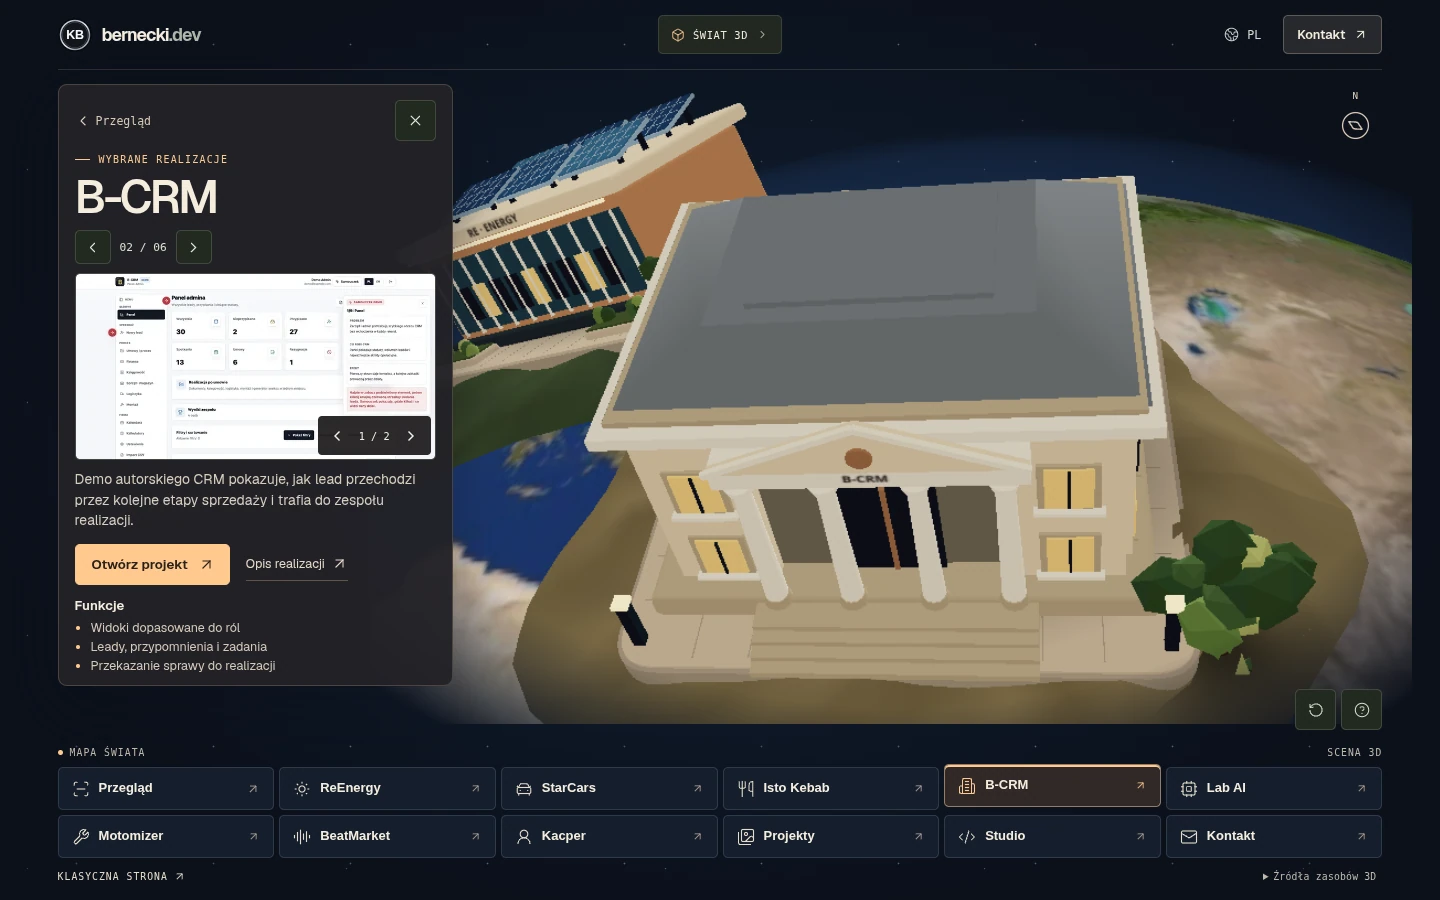
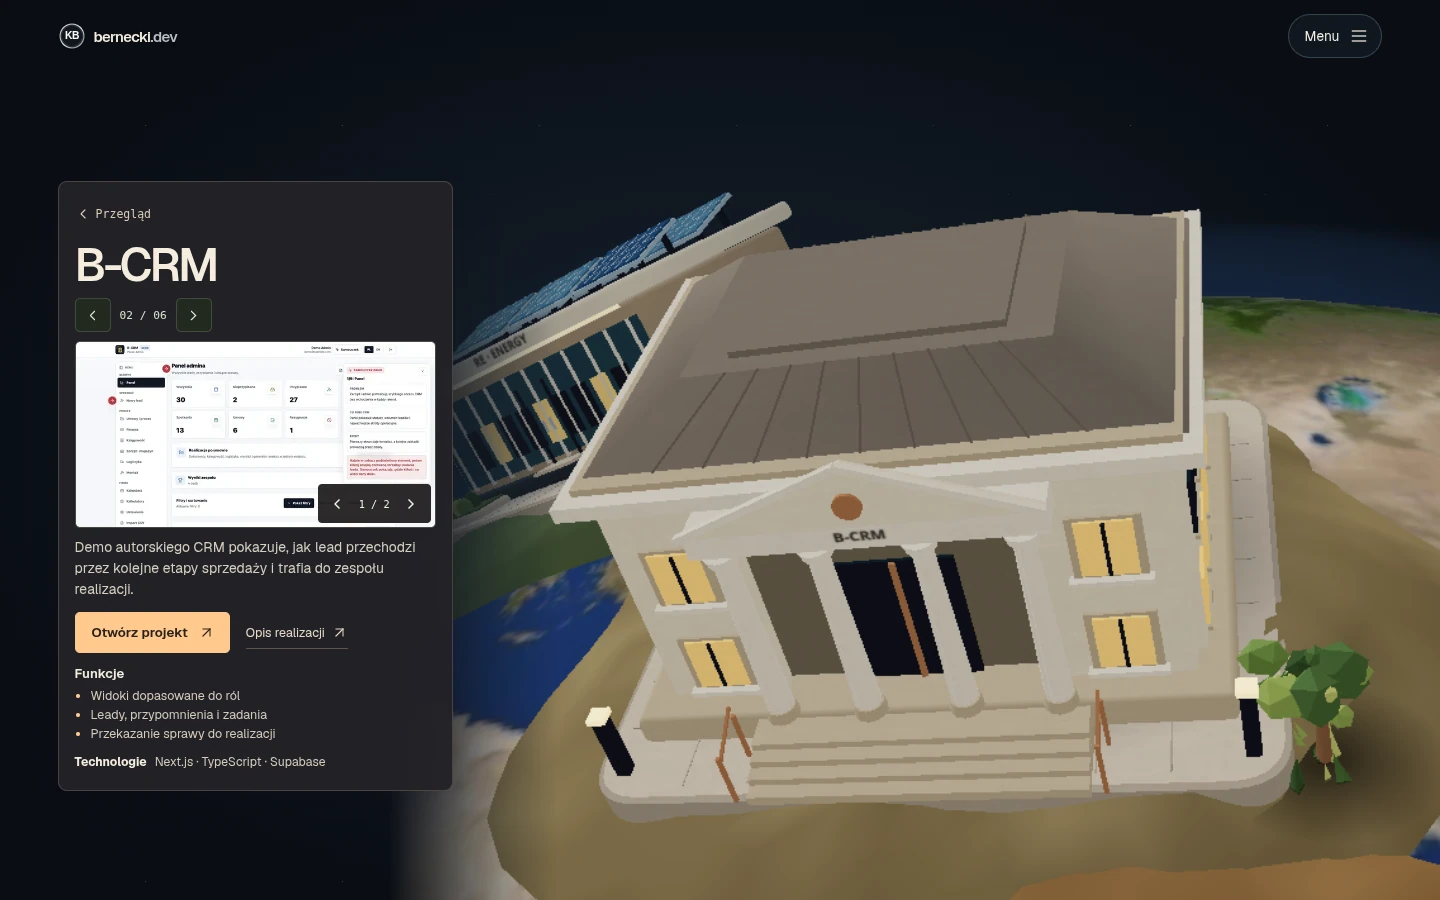
Verify premium globe navigation and record visual checks

diff --git a/src/components/world/World.tsx b/src/components/world/World.tsx
@@ -283,7 +283,7 @@ export function World({ locale }: { locale: WorldLocale }) {
           <Image ref={poster} src="/images/world/model.webp" alt="" fill unoptimized priority fetchPriority="high" />
         </div>
         <div className={styles.canvas} ref={host} />
-        <div className={styles.hotspots} aria-label={t.places}>
+        <div className={styles.hotspots} role="group" aria-label={t.places}>
           {sceneStops.map(place => (
             <button type="button" key={place.id} className={styles.hotspot}
               data-zone={place.id} data-side={place.labelSide} aria-label={stopLabel(place.id)}
@@ -317,7 +317,7 @@ export function World({ locale }: { locale: WorldLocale }) {
             </div>
             <div className={styles.projectPhoto} data-place-reveal="">
               <a href={`/images/projects/${gallery.images[photo]}`} target="_blank" rel="noopener noreferrer" aria-label={`${t.photo} — ${gallery.name}`}>
-                <Image key={gallery.images[photo]} src={`/images/projects/${gallery.images[photo]}`} alt={`${t.projectImage} — ${gallery.name}`} fill sizes="(max-width: 830px) 87vw, 360px" />
+                <Image key={gallery.images[photo]} src={`/images/projects/${gallery.images[photo]}`} alt={`${t.projectImage} — ${gallery.name}`} fill loading="eager" sizes="(max-width: 830px) 87vw, 360px" />
               </a>
               {gallery.images.length > 1 && <div className={styles.photoNav}>
                 <button type="button" aria-label={t.prevPhoto} onClick={() => setPhoto(value => (value - 1 + gallery.images.length) % gallery.images.length)}><ChevronLeft size={16} /></button>

diff --git a/QUALITY_GATE.md b/QUALITY_GATE.md
@@ -1,36 +1,35 @@
-# Bernecki World — bramka jakości
+# Bernecki World — etap premium
 
-**92/100.** Ocena dotyczy wydania z globem 3D, obrotem wokół jego środka i zbliżeniem po wybraniu miejsca. [Kadry produkcyjne](docs/world/README.md#kadry-z-buildu-produkcyjnego)
+**8,8/10.** Ocena po porównaniu kadrów produkcyjnych i sprawdzeniu interakcji. Największe rezerwy pozostały w realizmie modeli i płynności na słabszym rendererze. [Kadry desktop i mobile](docs/world/README.md#kadry-z-buildu-produkcyjnego)
 
-| Obszar | Ocena | Podstawa |
+| Obszar | Ocena | Co sprawdzono |
 | --- | ---: | --- |
-| Kierunek artystyczny | 14/15 | Ciemne tło, satelitarna mapa z chmurami i atmosfera kuli. Siedem kadrów sprawdzono w rzeczywistej przeglądarce. |
-| Efekt pierwszego wejścia | 14/15 | Cała planeta w środku kadru, z rozpoznawalnymi miejscami i zaproszeniem do obrotu. |
-| Świat 3D | 14/15 | Miejsca mają geometrię na całej powierzchni kuli. Auta wykorzystują szczegółowe siatki, a zabudowa i ruchomy miś mają formę stylizowanych miniatur. |
-| Animacja i kamera | 14/15 | Obrót zachowuje środek i skalę. Animowany przelot do miejsca po drugiej stronie globu oraz powrót do centrum przeszły testy. |
-| Interakcje i UX | 10/10 | Mysz, dotyk, klawiatura, kliknięcie modelu, karty, obrót, przełącznik trybów i dostęp do projektów bez WebGL działają. |
-| Mobile | 9/10 | Glob zachowuje środek w testowanych rozmiarach, a wybór miejsca działa dotykiem. Na najmniejszym ekranie do dalszych pozycji mapy dociera się przewijaniem. |
-| Wydajność i stabilność | 7/10 | Szczegółowe auta są ładowane przy wyborze StarCars i pojawiają się po przelocie. Oświetlenie globu jest uproszczone w rendererze programowym. Płynność zależy od profilu przeglądarki. |
-| Oryginalność i marka | 5/5 | Autorskie miejsca, portret pluszaka oparty na zdjęciu właściciela, geometryczne detale misia i ruch na placu. |
-| Funkcjonalność biznesowa | 5/5 | Sześć rzeczywistych realizacji, materiały z portfolio, linki do usług i kontakt. |
+| Realizm 3D | 8,1 | HDRI, mapy PBR, kontaktowe przyciemnienie, odbicia i detale elewacji są widoczne w zbliżeniach. Niektóre budynki, rośliny i postać zachowują styl miniatury. |
+| Estetyka premium | 9,2 | Spójna paleta, spokojna typografia, czytelne karty i miękkie oddzielenie zbliżenia od tła. |
+| Pierwsze wrażenie | 9,0 | Ujęcie całej kuli przechodzi po wyborze w przelot do miejsca osadzonego na jej powierzchni. |
+| Minimalizm | 9,5 | Na wejściu widać glob, logo, tytuł, menu i krótką wskazówkę. Etykiety i treści pojawiają się przy interakcji. |
+| Animacja | 9,0 | Sprawdzono obrót, lot na drugą stronę kuli, zmianę projektu, powrót i ograniczenie ruchu. |
+| UX | 9,3 | Obiekty, menu, klawiatura, dotyk, link do projektu i widok klasyczny mają działające ścieżki. |
+| Wydajność | 7,6 | Materiały i pojazdy są pobierane przy zbliżeniu, bez obciążania pierwszego widoku. Na rendererze programowym płynność lotu silnie zależy od profilu. |
+| Mobile | 8,8 | Menu i karta mają własny układ, a środek kuli pozostaje stabilny. Dotyk sprawdzono w profilach Chromium i WebKit. |
 
 ## Weryfikacja
 
-- Build produkcyjny, TypeScript, 355 testów Vitest i weryfikacja PL/EN przeszły. ESLint zgłosił 0 błędów i 15 istniejących ostrzeżeń poza zmianą.
-- Playwright sprawdził środek i skalę globu po obrocie, brak zoomu kółkiem, katalog przy stałym kadrze, kliknięcie modelu ReEnergy, animowany przelot do BeatMarket oraz powrót. Sprawdzono osiem głównych lokacji, ruch pluszaka, wczytanie GLB samochodów i tekstury asfaltu, tryb dotykowy, siedem rozmiarów i widok bez WebGL.
-- W profilu iPhone 13 w WebKit WPE uruchomiono widok angielski i otwarto projekt dotykiem. Tryby Classic i Interactive oraz 41 tras, metadane, sitemap i adresy kanoniczne przeszły testy. Axe zwrócił 0 naruszeń w przeglądzie sceny dla PL, EN i UK.
+- Produkcyjny build, TypeScript, weryfikacja PL/EN i 355 testów Vitest przeszły. ESLint zwrócił 0 błędów i 15 istniejących ostrzeżeń.
+- Playwright sprawdził siedem rozmiarów ekranu, stały środek i skalę globu, ukryte menu, klawiaturę i powrót fokusu, kliknięcie modelu, dotyk, przelot i powrót, szyld B-CRM, wczytywanie pojazdów i materiałów, ruch maskotki, widok bez WebGL oraz Classic. Axe zwrócił 0 naruszeń z otwartym i zamkniętym menu w PL, EN i UK.
+- 41 tras zwróciło HTTP 200. Zweryfikowano adresy kanoniczne, hreflang, sitemap, robots.txt i Open Graph.
 
 ## Pomiary
 
-Lokalny build produkcyjny z kodu `c8a86fc`. Linux bez udostępnionego GPU, Chromium 156 ze SwiftShader i WebKit WPE 27.2. FPS to mediana z sześciu przejść między przeglądem a zbliżeniami. Czas pierwszej klatki liczono od nawigacji do pierwszej oznaczonej klatki WebGL.
+Build produkcyjny uruchomiony w Linuksie bez sprzętowego GPU. Pierwsza klatka jest liczona od nawigacji do gotowości sceny WebGL. FPS jest medianą tempa aktualizacji projekcji w zarejestrowanych fragmentach przelotów.
 
-| Profil | Pierwsza klatka 3D | Mediana podczas ruchu |
+| Profil przeglądarki | Pierwsza klatka | Mediana aktualizacji |
 | --- | ---: | ---: |
-| Chromium, 1440 × 900 | 4,02 s | 8,2 FPS |
-| Chromium, Pixel 7 | 2,30 s | 19,0 FPS |
-| WebKit, 1440 × 900 | 2,63 s | 13,4 FPS |
-| WebKit, iPhone 13 | 1,69 s | 52,9 FPS |
+| Chromium SwiftShader, 1440 × 900 | 2,83 s | 18,2 FPS (4 próbki) |
+| Chromium SwiftShader, Pixel 7 | 2,00 s | 20,9 FPS (6 próbek) |
+| WebKit WPE, 1440 × 900 | 2,94 s | 12,4 FPS (6 próbek) |
+| WebKit WPE, iPhone 13 | 1,51 s | 51,8 FPS (6 próbek) |
 
-Chromium pobrał około 332 kB skompresowanego JavaScriptu i 516 kB obrazów przed wejściem do StarCars. Model samochodu ma 549 kB i jest pobierany na żądanie. Płynność na fizycznych telefonach i komputerze z GPU pozostaje do zmierzenia.
+Scena w uproszczonym profilu pobrała ok. 331 kB skompresowanego JavaScriptu i 531 kB obrazów przed wyborem projektu. Pełny profil pobiera też atlas HDRI. Płynność na fizycznych telefonach i komputerze ze sprzętowym GPU wymaga odrębnego pomiaru.
 
-Lighthouse 13.6.0 w profilu mobilnym dał **61 Performance, 100 Accessibility, 100 Best Practices i 100 SEO**. FCP 0,92 s, LCP 3,32 s, TBT 5,61 s i CLS 0,003.
+Mobilny profil Lighthouse 13.6 w tym środowisku uzyskał 61/100 Performance oraz po 100/100 za Accessibility, Best Practices i SEO. FCP 0,9 s, LCP 3,3 s, TBT 4,21 s i CLS 0,001.

diff --git a/docs/world/README.md b/docs/world/README.md
@@ -1,6 +1,6 @@
 # Bernecki World
 
-Świat jest dostępny pod adresami `/world`, `/en/world` i `/uk/world`. Przeciągnięcie myszą lub palcem obraca planetę przy stałym środku i skali. Katalog projektów pokazuje nadal cały glob. Wybranie miejsca z modelu, mapy lub klawiatury uruchamia przelot i zbliżenie. W klasycznej stronie przycisk „Świat 3D” otwiera wybór trybu z dwoma podglądami.
+Świat jest dostępny pod adresami `/world`, `/en/world` i `/uk/world`. Przeciągnięcie myszą lub palcem obraca planetę przy stałym środku i skali. Menu miejsc otwiera się na żądanie. Wybranie miejsca w scenie, menu lub z klawiatury uruchamia przelot i zbliżenie. W klasycznej stronie przycisk „Świat 3D” otwiera wybór trybu z dwoma podglądami.
 
 ## Miejsca na planecie
 
@@ -15,7 +15,7 @@
 | Scena BeatMarket | Platforma producentów i odsłuch beatów |
 | Pluszowy przewodnik Kacper | Informacje o autorze i ścieżka współpracy |
 
-Przyciski na mapie, kliknięcia obiektów i linki `#project-*` prowadzą do tych samych kart i zbliżeń. Miejsca rozmieszczono dla kompozycji globu i odkrywania jego drugiej strony. Etykieta Kacpra śledzi postać podczas poruszania klawiszami W, A, S, D lub kliknięciem alejki na placu.
+Przyciski menu, kliknięcia obiektów i linki `#project-*` prowadzą do tych samych kart i zbliżeń. Miejsca rozmieszczono dla kompozycji globu i odkrywania jego drugiej strony. Etykieta Kacpra śledzi postać podczas poruszania klawiszami W, A, S, D lub kliknięciem alejki na placu.
 
 ## Kadry z buildu produkcyjnego
 
@@ -31,6 +31,7 @@ Przyciski na mapie, kliknięcia obiektów i linki `#project-*` prowadzą do tych
 
 - [Pełny profil renderowania, 1440 × 900](screenshots/full-quality-1440.webp)
 - [Panele słoneczne i karta ReEnergy](screenshots/reenergy.webp)
+- [ReEnergy w pełnym profilu materiałów](screenshots/reenergy-hdr.webp)
 - [Zbliżenie i karta StarCars na komputerze](screenshots/project-1440.webp)
 - [Plac StarCars na telefonie](screenshots/starcars-mobile.webp)
 - [Karta Isto Kebab w widoku dotykowym](screenshots/project-390.webp)
@@ -41,10 +42,12 @@ Przyciski na mapie, kliknięcia obiektów i linki `#project-*` prowadzą do tych
 - [Scena BeatMarket](screenshots/beatmarket.webp)
 - [Pluszowy przewodnik](screenshots/hq.webp)
 - [Wybór trybu](screenshots/mode.webp)
+- [Menu na komputerze](screenshots/menu-1440x900.webp)
+- [Menu w widoku dotykowym](screenshots/menu-390x844.webp)
 - [Widok po wyłączeniu WebGL](screenshots/fallback.webp)
 - [Profil iPhone 13 w WebKit](screenshots/webkit-iphone.webp)
 
-Przeglądy w tabeli wykonano w Chromium z renderowaniem programowym. Dodatkowy kadr pokazuje pełny profil oświetlenia i geometrii z wymuszonym profilem w tej samej przeglądarce. Kadry mobilne pochodzą z profili przeglądarek. Przy 320 × 568 druga część mapy jest dostępna przy przewijaniu.
+Przeglądy w tabeli wykonano w Chromium z renderowaniem programowym. Kadry pełnego profilu pokazują HDRI i materiały PBR z wymuszonym profilem w tej samej przeglądarce. Kadry mobilne pochodzą z profili przeglądarek. Na małych ekranach listę w menu można przewijać.
 
 ## Uruchomienie i źródła
 
@@ -53,13 +56,15 @@ npm ci
 npm run dev
 ```
 
-Scena wczytuje się dynamicznie na trasach World. Kula Three.js ma teksturę satelitarną i atmosferę. Każda lokalizacja ma własny układ współrzędnych styczny do kuli. Kamera najpierw odsuwa się od aktywnego miejsca, przemieszcza po zewnętrznym łuku i zbliża do celu od strony powierzchni. Na wolnym sprzęcie rozdzielczość bufora zmniejsza się podczas ruchu. Karty wykorzystują zrzuty i potwierdzony zakres istniejących realizacji.
+Scena wczytuje się dynamicznie na trasach World. Kula Three.js ma teksturę satelitarną i atmosferę. Kamera najpierw odsuwa się od aktywnego miejsca, przemieszcza po zewnętrznym łuku i zbliża do celu od strony powierzchni. Plan dalszy stopniowo zanika w mgiełce. Przy pierwszym zbliżeniu aplikacja pobiera tekstury kamienia i drewna. Na wolnym sprzęcie używa uproszczonego oświetlenia i obniża rozdzielczość podczas ruchu.
 
 ## Źródła modeli i tekstur
 
 - **Ziemia i chmury.** `planet-earth.webp` łączy mapę dzienną i mapę chmur Solar System Scope opartą na danych NASA, w tym Blue Marble. Zmieniono kolor i krycie chmur oraz zapisano wynik w WebP. [Solar System Scope](https://www.solarsystemscope.com/textures/) · [CC BY 4.0](https://creativecommons.org/licenses/by/4.0/)
 - **Samochody.** `starcars-supercar.glb` to zoptymalizowany wariant LOD1 modelu Mid-Engine Supercar v2. Scena używa trzech wariantów lakieru i pobiera model przy wejściu do StarCars. [tevy](https://tevy.dev/models/supercar) · [CC0 1.0](https://creativecommons.org/publicdomain/zero/1.0/)
 - **Asfalt.** `starcars-asphalt.webp` wykorzystuje mapę koloru Asphalt 012 z ambientCG. [ambientCG](https://ambientcg.com/view?id=Asphalt012) · [CC0 1.0](https://creativecommons.org/publicdomain/zero/1.0/)
+- **Beton i drewno.** Tekstury koloru, normalnych i szorstkości pochodzą z zestawów Concrete 034 i Wood 049. [Concrete 034](https://ambientcg.com/view?id=Concrete034) · [Wood 049](https://ambientcg.com/view?id=Wood049) · [CC0 1.0](https://creativecommons.org/publicdomain/zero/1.0/)
+- **Światło.** `environment.webp` to atlas CubeUV 128 px przygotowany z mapy HDRI Kloppenheim 06 Pure Sky. [Poly Haven](https://polyhaven.com/a/kloppenheim_06_puresky) · [CC0 1.0](https://creativecommons.org/publicdomain/zero/1.0/)
 - **Kacper.** Pluszowy portret powstał w ImageGen na podstawie portretu właściciela z portfolio. Model 3D odtwarza zaczesane włosy, zarost, marynarkę i skrzyżowane ręce.
 
-Sterowanie i ustawienie widoku statycznego są dostępne pod przyciskiem pomocy w scenie. Pełny raport sprawdzeń znajduje się w [QUALITY_GATE.md](../../QUALITY_GATE.md), a aktualny stan wydania w [HEARTBEAT.md](../../HEARTBEAT.md).
+Sterowanie i ustawienie widoku statycznego są dostępne w sekcji pomocy w menu. Pełny raport sprawdzeń znajduje się w [QUALITY_GATE.md](../../QUALITY_GATE.md), a aktualny stan wydania w [HEARTBEAT.md](../../HEARTBEAT.md).

diff --git a/PROGRESS.md b/PROGRESS.md
@@ -1,0 +1,8 @@
+# Bernecki World — etap premium
+
+- Baza z poprawionym szyldem B-CRM jest zachowana w `backup/bernecki-world-before-premium` (`76a8c7f`) i w podglądzie Vercel poprzedniego wydania.
+- Gotowe — schowane menu, stabilny środek globu, przeloty z powrotem, skompresowany atlas HDRI, PBR betonu i drewna oraz detale budynków. Materiały i auta wczytują się przy zbliżeniu, a lżejszy profil ogranicza koszty renderowania.
+- Po przeglądzie kadrów skorygowano jasność materiałów, szwy dachu, dalszy plan i obciążenie interfejsu mobilnego.
+- Weryfikacja — build, 355 testów, siedem rozmiarów ekranu, Playwright w Chromium i WebKit, klawiatura, dotyk, widok statyczny i 41 tras. [Kadry](docs/world/README.md#kadry-z-buildu-produkcyjnego) · [Pomiary](QUALITY_GATE.md)
+- Ograniczenia — częściowo stylizowana geometria i wydajność mierzona w profilach przeglądarek. Ocena wydania 8,8/10.
+- Następny krok — zmierzyć przeloty i czas wejścia na fizycznych telefonach i sprzętowym GPU. [Podgląd i kontrole w PR #116](https://github.com/ft4k696bk6-prog/kacper-portfolio/pull/116)

diff --git a/HEARTBEAT.md b/HEARTBEAT.md
@@ -1,7 +1,5 @@
 # Bernecki World — stan prac
 
-- Etap — wydanie z planetą gotowe do przeglądu na `feat/bernecki-world`. [PR #116](https://github.com/ft4k696bk6-prog/kacper-portfolio/pull/116)
-- Ukończone — satelitarny glob z obrotem wokół środka, przeloty do projektów, spersonalizowany pluszak w 3D i na portrecie, szczegółowe auta w StarCars, PL/EN/UK i statyczny glob.
-- Testy — build, 355 testów, siedem rozmiarów ekranu, obrót i wybór miejsca, przelot na drugą stronę, widok bez WebGL i 41 odpowiedzi HTTP 200.
-- Ocena — 92/100. [Pomiary i ograniczenia](QUALITY_GATE.md)
-- Otwarte — pomiary na fizycznych telefonach i przy sprzętowym GPU.
+- Etap premium jest gotowy do przeglądu na `feat/bernecki-world`. [PR #116](https://github.com/ft4k696bk6-prog/kacper-portfolio/pull/116)
+- Stan implementacji i następny krok są opisane w [PROGRESS.md](PROGRESS.md).
+- Kadry i pomiary znajdują się w [dokumentacji sceny](docs/world/README.md) i [bramce jakości](QUALITY_GATE.md).
